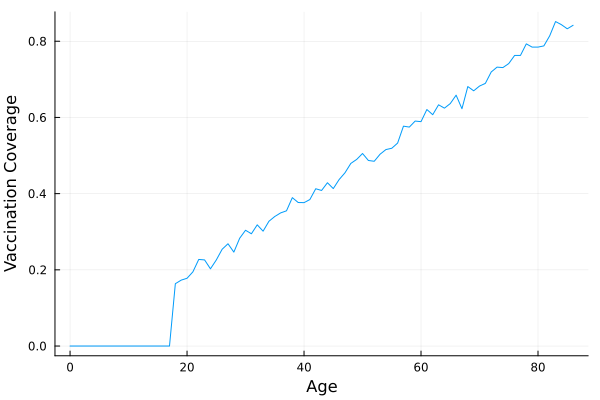
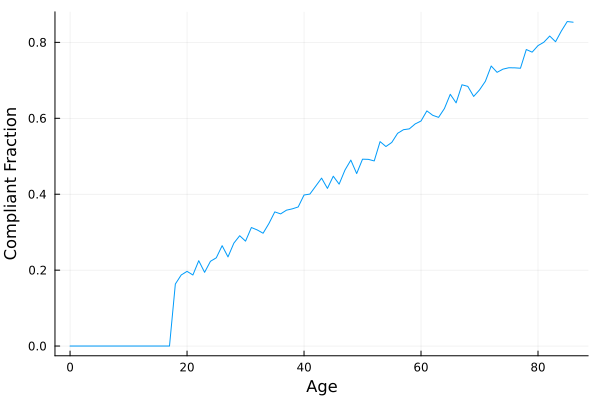
fix vaccination examples and accessor signatures in the docs

diff --git a/docs/src/tut_configfiles.md b/docs/src/tut_configfiles.md
@@ -565,7 +565,7 @@ As with the other custom types, you can also configure the policy from a config 
 ```
 
 !!! warning "Module Visibility"
-    As with custom transmission functions and progressions, if you define `SevereWithDeathProgression` in an external script or module, make sure it is loaded into your Julia environment *before* you initialize `Simulation("config.toml")`. The TOML parser needs the struct definition to exist in the global scope to build it.
+    As with custom transmission functions and progressions, if you define `SevereWithDeathProgression` in an external script or module, make sure it is loaded into your Julia environment *before* you initialize `Simulation(configfile = "config.toml")`. The TOML parser needs the struct definition to exist in the global scope to build it.
 
 ## Custom Progression Assignment
 
@@ -591,13 +591,14 @@ using Parameters, Random
 end
 ```
 
-Next, extend the `GEMS.assign` function. This function takes the individual, your custom assignment struct, and a random number generator. It must return the `DataType` of the progression category the individual should be assigned to (e.g., returning the type `Mild`, not an instance of it).
+Next, extend the `GEMS.assign` function. This function takes the individual, your custom assignment struct, the simulation, the pathogen's id, the current tick, and a random number generator. It must return the `DataType` of the progression category the individual should be assigned to (e.g., returning the type `Mild`, not an instance of it).
 
 ```julia
-function GEMS.assign(individual::Individual, pa::VaccBasedAssignment, rng::AbstractRNG)
+function GEMS.assign(individual::Individual, pa::VaccBasedAssignment, sim::Union{Simulation, Nothing},
+        pathogen_id::Int8, tick::Int16, rng::Xoshiro)
     
-    # Check the custom attribute we might have assigned during population creation
-    if individual.number_of_vaccinations > 0
+    # sim is nothing when infect! is called without a simulation
+    if !isnothing(sim) && isvaccinated(individual, sim, pathogen_id)
         return Mild # Vaccinated individuals always get a mild track
     else
         # Unvaccinated individuals have a risk of severe progression
@@ -619,15 +620,17 @@ Finally, to use this in a simulation, you simply define it in your custom config
         prob_severe_unvaxxed = 0.5
 ```
 
-When you load this config file using `sim = Simulation("path/to/config.toml")`, GEMS will automatically apply your custom vaccination-based logic to every newly infected individual using your `assign` function. We can easily verify that our custom assignment works by running two scenarios: one baseline where no individuals are vaccinated, and one where we manually vaccinate the entire population before running.
+When you load this config file using `sim = Simulation(configfile = "path/to/config.toml")`, GEMS will automatically apply your custom vaccination-based logic to every newly infected individual using your `assign` function. We can easily verify that our custom assignment works by running two scenarios: one baseline where no individuals are vaccinated, and one where we vaccinate the entire population before running.
+The vaccine's `peak = 0` keeps it from protecting on its own, so only the assignment changes the outcome.
 
 ```julia
 # Scenario 1: Baseline (0% Vaccinated)
-sim_baseline = Simulation("path/to/config.toml", label = "0% Vaccinated")
+sim_baseline = Simulation(configfile = "path/to/config.toml", label = "0% Vaccinated")
 
 # Scenario 2: 100% Vaccinated
-sim_vaxxed = Simulation("path/to/config.toml", label = "100% Vaccinated")
-foreach(i -> i.number_of_vaccinations = 1, individuals(sim_vaxxed))
+sim_vaxxed = Simulation(configfile = "path/to/config.toml", label = "100% Vaccinated")
+marker = Vaccine(id = 1, name = "Marker", target_pathogen_id = id(first_pathogen(sim_vaxxed)), peak = 0)
+foreach(i -> vaccinate!(i, sim_vaxxed, marker, Int16(0)), individuals(sim_vaxxed))
 
 run!(sim_baseline)
 run!(sim_vaxxed)
@@ -740,7 +743,7 @@ Extension fields behave exactly like built-in fields regardless of how they were
 
 !!! warning "Extension names must not collide with core fields"
     Extension fields share the `Individual` property namespace, so their names must differ from
-    the built-in fields (e.g. `sex`, `age`, `household`, `office`, `number_of_vaccinations`, …).
+    the built-in fields (e.g. `sex`, `age`, `household`, `office`, `schoolclass`, …).
     Reusing a core name is rejected at load time with an explicit error (otherwise `ind.sex`
     would silently return the built-in attribute instead of your value, and the population could
     not be exported back to a `DataFrame`). Rename the offending column or struct field.

diff --git a/docs/src/tut_pops.md b/docs/src/tut_pops.md
@@ -138,12 +138,12 @@ Look up the settings-file section of the API documentation to learn about the in
 
 ## Adjusting Populations
 
-In some cases, you might want to manually adjust populations after they have been loaded (e.g., to manually set a certain vaccination status for each individual).
+In some cases, you might want to manually adjust populations after they have been loaded (e.g., to set how likely each individual is to comply with mandates).
 This can be done using the `each!(...)` function that applies a given function on each individual in a provided `Population`.
-Here's an example where we decide whether an individual has been vaccinated once with increasing probability, depending on their age.
+Here's an example where we decide whether an individual complies with mandates with increasing probability, depending on their age.
 We exclude everybody below the age of 18.
-The `sample_vacc!` function that we define does just that for an individual. We then call `each!` to apply this function to all individuals in the population.
-After that, we build up a dataframe with ages and numbers of vaccinations for all individuals, group them by age, and visualize the fraction of vaccinated individuals per by age.
+The `sample_compliance!` function that we define does just that for an individual. We then call `each!` to apply this function to all individuals in the population.
+After that, we build up a dataframe with ages and mandate compliance for all individuals, group them by age, and visualize the fraction of compliant individuals by age.
 
 ```julia
 using GEMS, Plots, DataFrames
@@ -151,23 +151,23 @@ sim = Simulation()
 pop = population(sim)
 
 # function to adjust individual
-function sample_vaccs!(i)
+function sample_compliance!(i)
     if age(i) >= 18 && rand(1:100) < age(i)
-        i.number_of_vaccinations = 1
+        i.mandate_compliance = 1.0
     end
 end
 
 # apply function to each individual
-each!(sample_vaccs!, pop)
+each!(sample_compliance!, pop)
 
 # plot to verify that everything worked
 inds = individuals(pop)
-df = DataFrame(age = age.(inds), vaccinations = number_of_vaccinations.(inds))
+df = DataFrame(age = age.(inds), compliance = mandate_compliance.(inds))
 df_grouped = groupby(df, :age)
-df_combined = combine(df_grouped, :vaccinations => (v -> sum(v) / length(v)) => :vacc_fraction)
-plot(df_combined.age, df_combined.vacc_fraction,
+df_combined = combine(df_grouped, :compliance => (c -> count(==(1), c) / length(c)) => :compliant_fraction)
+plot(df_combined.age, df_combined.compliant_fraction,
     xlabel = "Age",
-    ylabel = "Vaccination Coverage",
+    ylabel = "Compliant Fraction",
     legend = false)
 ```
 

diff --git a/docs/src/tut_exploring.md b/docs/src/tut_exploring.md
@@ -74,16 +74,15 @@ dataframe(pop)
 and one custom parameter.
 [ Info: 21:40:37 | └ Creating population
 [ Info: 21:40:39 | └ Creating simulation object
-100000×10 DataFrame
-    Row │ id      sex   age   number_of_vaccinations  vaccination_tick  education  ⋯
-        │ Int32   Int8  Int8  Int8                    Int16             Int8       ⋯
-────────┼─────────────────────────────────────────────────────────────────────────────
-      1 │      1     2    43                       0                -1         -1  ⋯
-      2 │      2     1    50                       0                -1         -1  ⋯
-   ⋮    │   ⋮      ⋮     ⋮              ⋮                    ⋮              ⋮          ⋮ 
-  99999 │  99999     1     5                       0                -1         -1  ⋯  
- 100000 │ 100000     1    42                       0                -1         -1  ⋯ 
-99996 rows omitted   
+100000×8 DataFrame
+    Row │ id      sex   age   education  occupation  household  office  schoolclass
+        │ Int32   Int8  Int8  Int8       Int16       Int32      Int32   Int32
+────────┼───────────────────────────────────────────────────────────────────────────
+      1 │      1     1    34         -1          -1          1    9891           -1
+      2 │      2     2    10         -1          -1          2      -1           50
+   ⋮    │   ⋮      ⋮     ⋮        ⋮          ⋮           ⋮        ⋮          ⋮
+ 100000 │ 100000     2    61         -1          -1      10980    3760           -1
+                                                                  99997 rows omitted
 ```
 
 Additionally, there are a number of functions allowing you to check an individual's infection- or quarantine status.

diff --git a/docs/src/api_individuals.md b/docs/src/api_individuals.md
@@ -72,7 +72,7 @@ is_symptomatic(::Individual, ::Int16)
 is_ventilated(::Individual)
 is_working(::Individual)
 isquarantined(::Individual)
-isvaccinated(::Individual)
+isvaccinated(::Individual, ::Simulation, ::Int8)
 last_reported_at!(::Individual, ::Int16)
 last_reported_at(::Individual)
 last_test!(::Individual, ::Int16)
@@ -85,7 +85,7 @@ municipality(::Individual, ::Simulation)
 municipality_id(::Individual)
 num_of_infected(::Vector{Individual})
 number_of_infections(::Individual)
-number_of_vaccinations(::Individual)
+number_of_vaccinations(::Individual, ::Simulation, ::Int8)
 occupation(::Individual)
 office(::Individual, ::Simulation)
 office_id(::Individual)
@@ -115,6 +115,6 @@ symptom_onset(::Individual)
 symptom_onset!(::Individual, ::Int16)
 symptomatic!(::Individual, ::Bool)
 vaccinate!(::Individual, ::Simulation, ::Vaccine, ::Int16)
-vaccination_tick(::Individual)
-vaccine_id(::Individual)
+vaccination_tick(::Individual, ::Simulation, ::Int8)
+vaccine_id(::Individual, ::Simulation, ::Int8)
 ```
